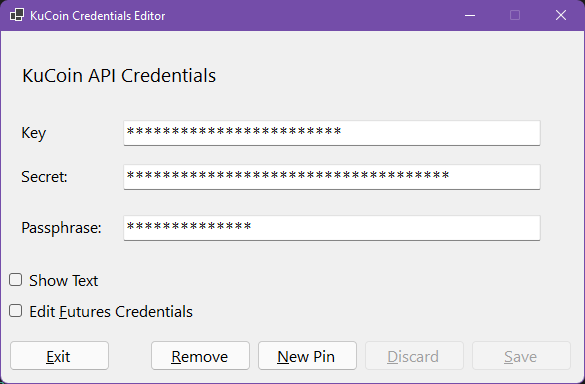
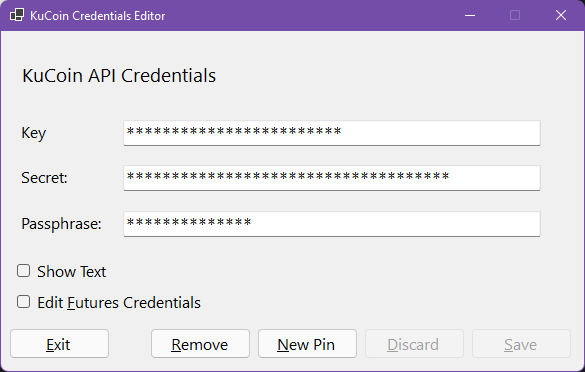
docs

diff --git a/Sample Apps/CredentialTool/frmMain.Designer.cs b/Sample Apps/CredentialTool/frmMain.Designer.cs
@@ -50,7 +50,7 @@ namespace CredentialTool
             this.chkFutures.Anchor = ((System.Windows.Forms.AnchorStyles)((System.Windows.Forms.AnchorStyles.Bottom | System.Windows.Forms.AnchorStyles.Left)));
             this.chkFutures.AutoSize = true;
             this.chkFutures.Font = new System.Drawing.Font("Segoe UI", 12F, System.Drawing.FontStyle.Regular, System.Drawing.GraphicsUnit.Point);
-            this.chkFutures.Location = new System.Drawing.Point(8, 268);
+            this.chkFutures.Location = new System.Drawing.Point(16, 259);
             this.chkFutures.Name = "chkFutures";
             this.chkFutures.Size = new System.Drawing.Size(193, 25);
             this.chkFutures.TabIndex = 0;
@@ -81,7 +81,7 @@ namespace CredentialTool
             // 
             this.label3.AutoSize = true;
             this.label3.Font = new System.Drawing.Font("Segoe UI", 12F, System.Drawing.FontStyle.Regular, System.Drawing.GraphicsUnit.Point);
-            this.label3.Location = new System.Drawing.Point(16, 134);
+            this.label3.Location = new System.Drawing.Point(16, 135);
             this.label3.Name = "label3";
             this.label3.Size = new System.Drawing.Size(56, 21);
             this.label3.TabIndex = 3;
@@ -91,7 +91,7 @@ namespace CredentialTool
             // 
             this.label4.AutoSize = true;
             this.label4.Font = new System.Drawing.Font("Segoe UI", 12F, System.Drawing.FontStyle.Regular, System.Drawing.GraphicsUnit.Point);
-            this.label4.Location = new System.Drawing.Point(16, 185);
+            this.label4.Location = new System.Drawing.Point(16, 181);
             this.label4.Name = "label4";
             this.label4.Size = new System.Drawing.Size(90, 21);
             this.label4.TabIndex = 4;
@@ -112,7 +112,7 @@ namespace CredentialTool
             this.txtSecret.Anchor = ((System.Windows.Forms.AnchorStyles)(((System.Windows.Forms.AnchorStyles.Top | System.Windows.Forms.AnchorStyles.Left) 
             | System.Windows.Forms.AnchorStyles.Right)));
             this.txtSecret.Font = new System.Drawing.Font("Consolas", 12F, System.Drawing.FontStyle.Regular, System.Drawing.GraphicsUnit.Point);
-            this.txtSecret.Location = new System.Drawing.Point(122, 133);
+            this.txtSecret.Location = new System.Drawing.Point(122, 134);
             this.txtSecret.Name = "txtSecret";
             this.txtSecret.Size = new System.Drawing.Size(418, 26);
             this.txtSecret.TabIndex = 6;
@@ -122,7 +122,7 @@ namespace CredentialTool
             this.txtPassphrase.Anchor = ((System.Windows.Forms.AnchorStyles)(((System.Windows.Forms.AnchorStyles.Top | System.Windows.Forms.AnchorStyles.Left) 
             | System.Windows.Forms.AnchorStyles.Right)));
             this.txtPassphrase.Font = new System.Drawing.Font("Consolas", 12F, System.Drawing.FontStyle.Regular, System.Drawing.GraphicsUnit.Point);
-            this.txtPassphrase.Location = new System.Drawing.Point(122, 184);
+            this.txtPassphrase.Location = new System.Drawing.Point(122, 180);
             this.txtPassphrase.Name = "txtPassphrase";
             this.txtPassphrase.Size = new System.Drawing.Size(418, 26);
             this.txtPassphrase.TabIndex = 7;
@@ -131,7 +131,7 @@ namespace CredentialTool
             // 
             this.btnSave.Anchor = ((System.Windows.Forms.AnchorStyles)((System.Windows.Forms.AnchorStyles.Bottom | System.Windows.Forms.AnchorStyles.Right)));
             this.btnSave.Font = new System.Drawing.Font("Segoe UI", 12F, System.Drawing.FontStyle.Regular, System.Drawing.GraphicsUnit.Point);
-            this.btnSave.Location = new System.Drawing.Point(470, 309);
+            this.btnSave.Location = new System.Drawing.Point(470, 297);
             this.btnSave.Name = "btnSave";
             this.btnSave.Size = new System.Drawing.Size(101, 31);
             this.btnSave.TabIndex = 8;
@@ -142,7 +142,7 @@ namespace CredentialTool
             // 
             this.btnDiscard.Anchor = ((System.Windows.Forms.AnchorStyles)((System.Windows.Forms.AnchorStyles.Bottom | System.Windows.Forms.AnchorStyles.Right)));
             this.btnDiscard.Font = new System.Drawing.Font("Segoe UI", 12F, System.Drawing.FontStyle.Regular, System.Drawing.GraphicsUnit.Point);
-            this.btnDiscard.Location = new System.Drawing.Point(363, 309);
+            this.btnDiscard.Location = new System.Drawing.Point(363, 297);
             this.btnDiscard.Name = "btnDiscard";
             this.btnDiscard.Size = new System.Drawing.Size(101, 31);
             this.btnDiscard.TabIndex = 9;
@@ -153,7 +153,7 @@ namespace CredentialTool
             // 
             this.btnExit.Anchor = ((System.Windows.Forms.AnchorStyles)((System.Windows.Forms.AnchorStyles.Bottom | System.Windows.Forms.AnchorStyles.Left)));
             this.btnExit.Font = new System.Drawing.Font("Segoe UI", 12F, System.Drawing.FontStyle.Regular, System.Drawing.GraphicsUnit.Point);
-            this.btnExit.Location = new System.Drawing.Point(8, 309);
+            this.btnExit.Location = new System.Drawing.Point(8, 297);
             this.btnExit.Name = "btnExit";
             this.btnExit.Size = new System.Drawing.Size(101, 31);
             this.btnExit.TabIndex = 11;
@@ -165,7 +165,7 @@ namespace CredentialTool
             this.chkShow.Anchor = ((System.Windows.Forms.AnchorStyles)((System.Windows.Forms.AnchorStyles.Bottom | System.Windows.Forms.AnchorStyles.Left)));
             this.chkShow.AutoSize = true;
             this.chkShow.Font = new System.Drawing.Font("Segoe UI", 12F, System.Drawing.FontStyle.Regular, System.Drawing.GraphicsUnit.Point);
-            this.chkShow.Location = new System.Drawing.Point(8, 237);
+            this.chkShow.Location = new System.Drawing.Point(16, 228);
             this.chkShow.Name = "chkShow";
             this.chkShow.Size = new System.Drawing.Size(98, 25);
             this.chkShow.TabIndex = 12;
@@ -176,7 +176,7 @@ namespace CredentialTool
             // 
             this.btnNewPin.Anchor = ((System.Windows.Forms.AnchorStyles)((System.Windows.Forms.AnchorStyles.Bottom | System.Windows.Forms.AnchorStyles.Left)));
             this.btnNewPin.Font = new System.Drawing.Font("Segoe UI", 12F, System.Drawing.FontStyle.Regular, System.Drawing.GraphicsUnit.Point);
-            this.btnNewPin.Location = new System.Drawing.Point(256, 309);
+            this.btnNewPin.Location = new System.Drawing.Point(256, 297);
             this.btnNewPin.Name = "btnNewPin";
             this.btnNewPin.Size = new System.Drawing.Size(101, 31);
             this.btnNewPin.TabIndex = 13;
@@ -187,7 +187,7 @@ namespace CredentialTool
             // 
             this.btnRemove.Anchor = ((System.Windows.Forms.AnchorStyles)((System.Windows.Forms.AnchorStyles.Bottom | System.Windows.Forms.AnchorStyles.Left)));
             this.btnRemove.Font = new System.Drawing.Font("Segoe UI", 12F, System.Drawing.FontStyle.Regular, System.Drawing.GraphicsUnit.Point);
-            this.btnRemove.Location = new System.Drawing.Point(149, 309);
+            this.btnRemove.Location = new System.Drawing.Point(149, 297);
             this.btnRemove.Name = "btnRemove";
             this.btnRemove.Size = new System.Drawing.Size(101, 31);
             this.btnRemove.TabIndex = 14;
@@ -198,7 +198,7 @@ namespace CredentialTool
             // 
             this.AutoScaleDimensions = new System.Drawing.SizeF(7F, 15F);
             this.AutoScaleMode = System.Windows.Forms.AutoScaleMode.Font;
-            this.ClientSize = new System.Drawing.Size(583, 352);
+            this.ClientSize = new System.Drawing.Size(583, 340);
             this.Controls.Add(this.btnRemove);
             this.Controls.Add(this.btnNewPin);
             this.Controls.Add(this.chkShow);
